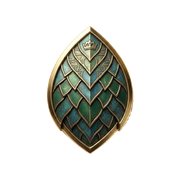
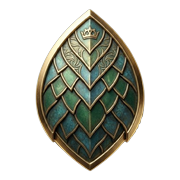
auto-commit for a200e944-d384-4b53-8aa2-2bde46e031bd

diff --git a/frontend/src/pages/AuthPage.js b/frontend/src/pages/AuthPage.js
@@ -401,7 +401,7 @@ const AuthPage = () => {
               <img
                 src="/brand/lordtraining-master.png"
                 alt="LordTraining"
-                className="relative h-[230px] w-auto transition-transform group-hover:scale-105"
+                className="relative h-[300px] w-auto transition-transform group-hover:scale-105"
                 style={{ filter: 'drop-shadow(0 16px 32px rgba(0,0,0,0.6))', animation: 'authShieldFloat 3s ease-in-out infinite' }}
               />
             </div>
